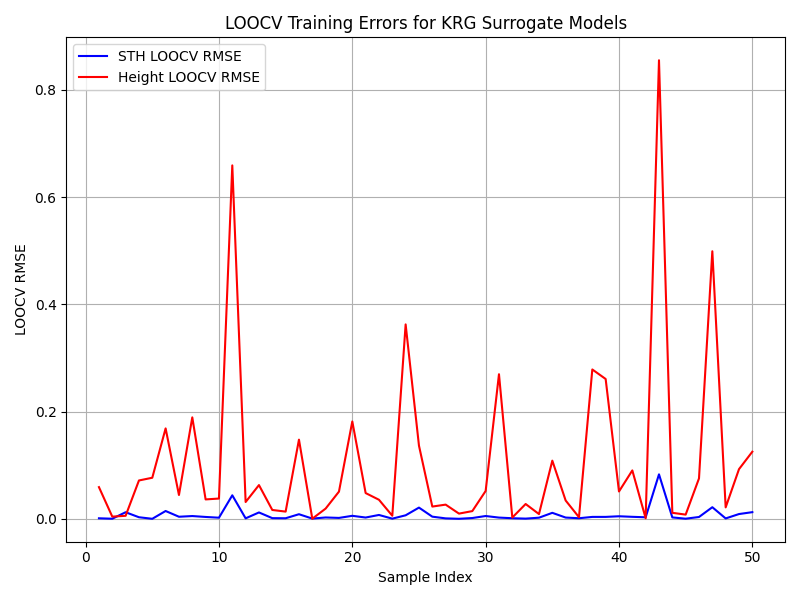
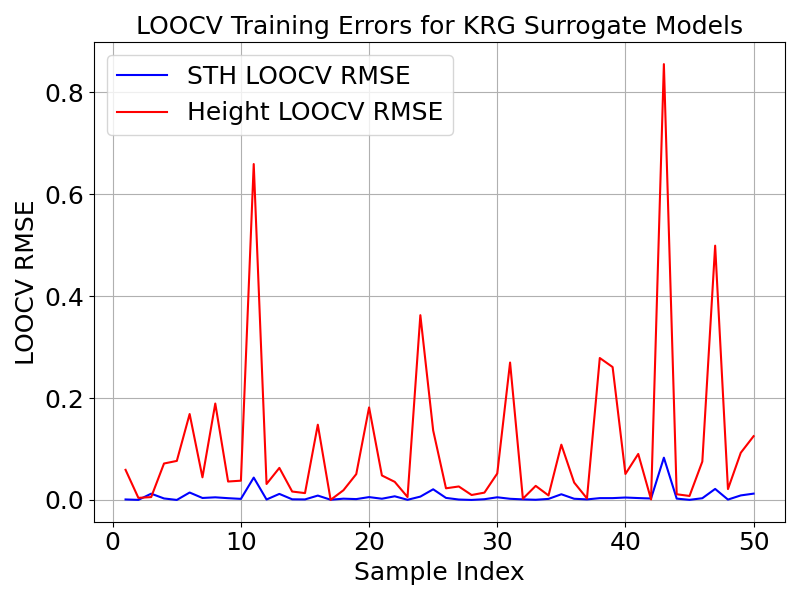
Update project with surrogate Pareto optimization and README

Changed region(s): [[0.0, 0.03, 0.9688, 0.99], [0.1562, 0.18, 0.1875, 0.21]]

diff --git a/surrogate_nsga2_krg_loocv.py b/surrogate_nsga2_krg_loocv.py
@@ -62,11 +62,12 @@ height_loocv_errors = compute_loocv_errors(X, Y_height_scaled, scaler_height)
 plt.figure(figsize=(8, 6))
 plt.plot(range(1, len(sth_loocv_errors) + 1), sth_loocv_errors, label='STH LOOCV RMSE', color='blue')
 plt.plot(range(1, len(height_loocv_errors) + 1), height_loocv_errors, label='Height LOOCV RMSE', color='red')
-plt.xlabel('Sample Index')
-plt.ylabel('LOOCV RMSE')
-plt.title('LOOCV Training Errors for KRG Surrogate Models')
+plt.xlabel('Sample Index', fontsize=18)
+plt.ylabel('LOOCV RMSE', fontsize=18)
+plt.title('LOOCV Training Errors for KRG Surrogate Models', fontsize=18)
+plt.tick_params(axis='both', labelsize=18)
 plt.grid(True)
-plt.legend()
+plt.legend(fontsize=18)
 plt.tight_layout()
 plt.savefig('Figure/krg_loocv_errors.png')
 plt.close()
@@ -119,10 +120,11 @@ res = minimize(
 F_actual = -res.F
 plt.figure(figsize=(8, 6))
 plt.scatter(F_actual[:, 0], F_actual[:, 1], c='red', label='Pareto Optimal')
-plt.xlabel("STH (mm)")
-plt.ylabel("Height (mm)")
-plt.title("Pareto Front from NSGA-II with Kriging Surrogate Model")
-plt.legend()
+plt.xlabel("STH (mm)", fontsize=18)
+plt.ylabel("Height (mm)", fontsize=18)
+plt.title("Pareto Front from NSGA-II with Kriging Surrogate Model", fontsize=16)
+plt.tick_params(axis='both', labelsize=18)
+plt.legend(fontsize=18)
 plt.grid(True)
 plt.tight_layout()
 plt.savefig("Figure/pareto_front.png")
